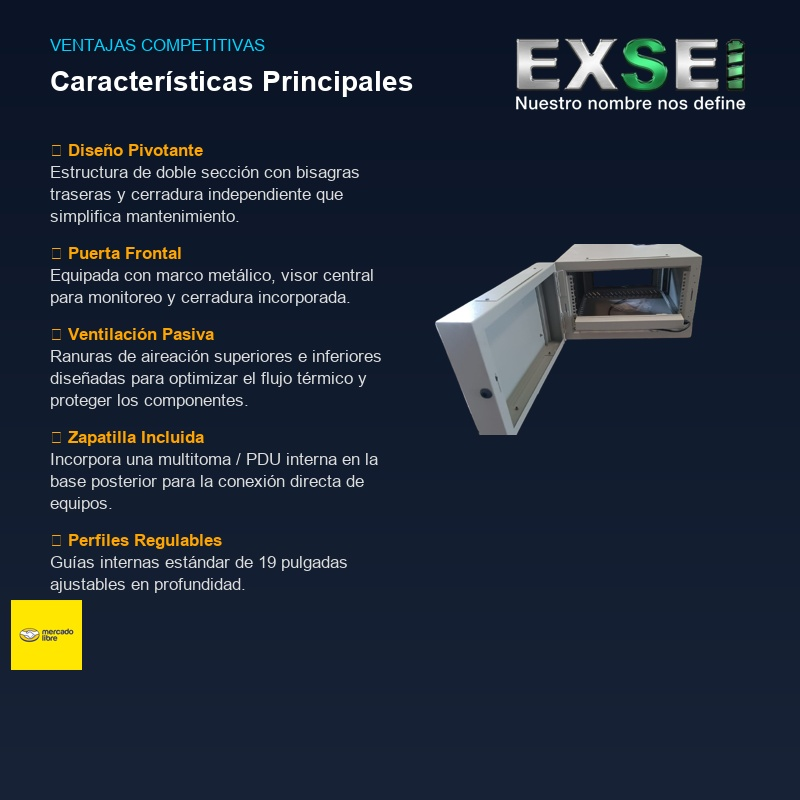
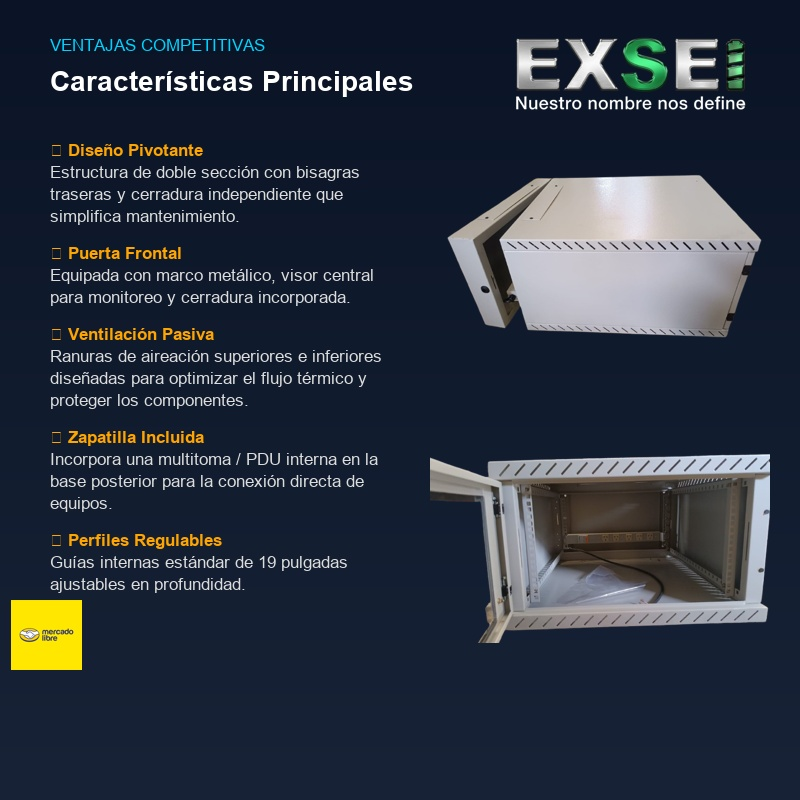
agrega 2 fotos en flyer1 horizontal y dos fotos en flyer2 vertical

Changed region(s): [[0.5312, 0.2188, 0.9688, 0.8125]]

diff --git a/flyers6.py b/flyers6.py
@@ -162,6 +162,8 @@ def procesar_catalogos():
         img_f1 = os.path.join(ruta_producto, "foto1.png")
         img_f2 = os.path.join(ruta_producto, "foto2.png")
         img_f3 = os.path.join(ruta_producto, "foto3.png")
+        img_f4 = os.path.join(ruta_producto, "foto4.png")
+        img_f5 = os.path.join(ruta_producto, "foto5.png")
 
         # =========================================================================
         # 🖼 FLYER 1: IMPACTO 
@@ -184,7 +186,23 @@ def procesar_catalogos():
             img.thumbnail((550, alto_disponible)) 
             
             # 3. La centramos milimétricamente en el espacio libre del lienzo
-            x_centro = int((ANCHO - img.width) / 2)
+            x_centro = int((0))
+            y_centro = int(y_actual + 15 + (alto_disponible - img.height) / 2)
+            
+            f1.paste(img, (x_centro, y_centro), mask=img)
+
+        # Pegar Foto 1 manteniendo proporciones
+        if os.path.exists(img_f2):
+            img = Image.open(img_f2).convert('RGBA')
+            
+            # 1. Calculamos el espacio vertical real que dejó el título
+            alto_disponible = max(250, 600 - y_actual)
+            
+            # 2. Achicamos la foto al recuadro máximo permitido sin deformarla
+            img.thumbnail((550, alto_disponible)) 
+            
+            # 3. La centramos milimétricamente en el espacio libre del lienzo
+            x_centro = int(ANCHO-img.width)
             y_centro = int(y_actual + 15 + (alto_disponible - img.height) / 2)
             
             f1.paste(img, (x_centro, y_centro), mask=img)
@@ -206,7 +224,7 @@ def procesar_catalogos():
         d2.text((50, 65), "Características Principales", fill=(255, 255, 255), font=font_titulo)
 
 
-        origen_f2 = img_f2 if os.path.exists(img_f2) else img_f1
+        origen_f2 = img_f3 if os.path.exists(img_f3) else img_f1
         if os.path.exists(origen_f2):
             img = Image.open(origen_f2).convert('RGBA')
             
@@ -214,12 +232,21 @@ def procesar_catalogos():
             img.thumbnail((340, 320))
             
             # La alineamos a la derecha (X=430) y centramos verticalmente en su bloque
-            y_centro_f2 = int(180 + (320 - img.height) / 2)
+            y_centro_f2 = int(180 + (320/2 - img.height) / 2)
+            f2.paste(img, (430, y_centro_f2), mask=img)
+
+        origen_f2 = img_f4 if os.path.exists(img_f4) else img_f1
+        if os.path.exists(origen_f2):
+            img = Image.open(origen_f2).convert('RGBA')
+            
+            # Recuadro máximo lateral (Ancho max: 340, Alto max: 320)
+            img.thumbnail((340, 320))
+            
+            # La alineamos a la derecha (X=430) y centramos verticalmente en su bloque
+            y_centro_f2 = int(180 + 320 - (img.height) / 4)
             f2.paste(img, (430, y_centro_f2), mask=img)
 
 
-
-        
             
         y_pos = 140
         for item_tit, item_desc in datos['caracteristicas'][:5]:
@@ -250,7 +277,7 @@ def procesar_catalogos():
             d3.line([(50, y_pos_final_valor + 5), (750, y_pos_final_valor + 5)], fill=(40, 50, 70), width=1)
             y_pos = y_pos_final_valor + 15
 
-        origen_f3 = img_f3 if os.path.exists(img_f3) else img_f1
+        origen_f3 = img_f5 if os.path.exists(img_f5) else img_f1
         if os.path.exists(origen_f3):
             img_tecnica = Image.open(origen_f3).convert('RGBA')
             
